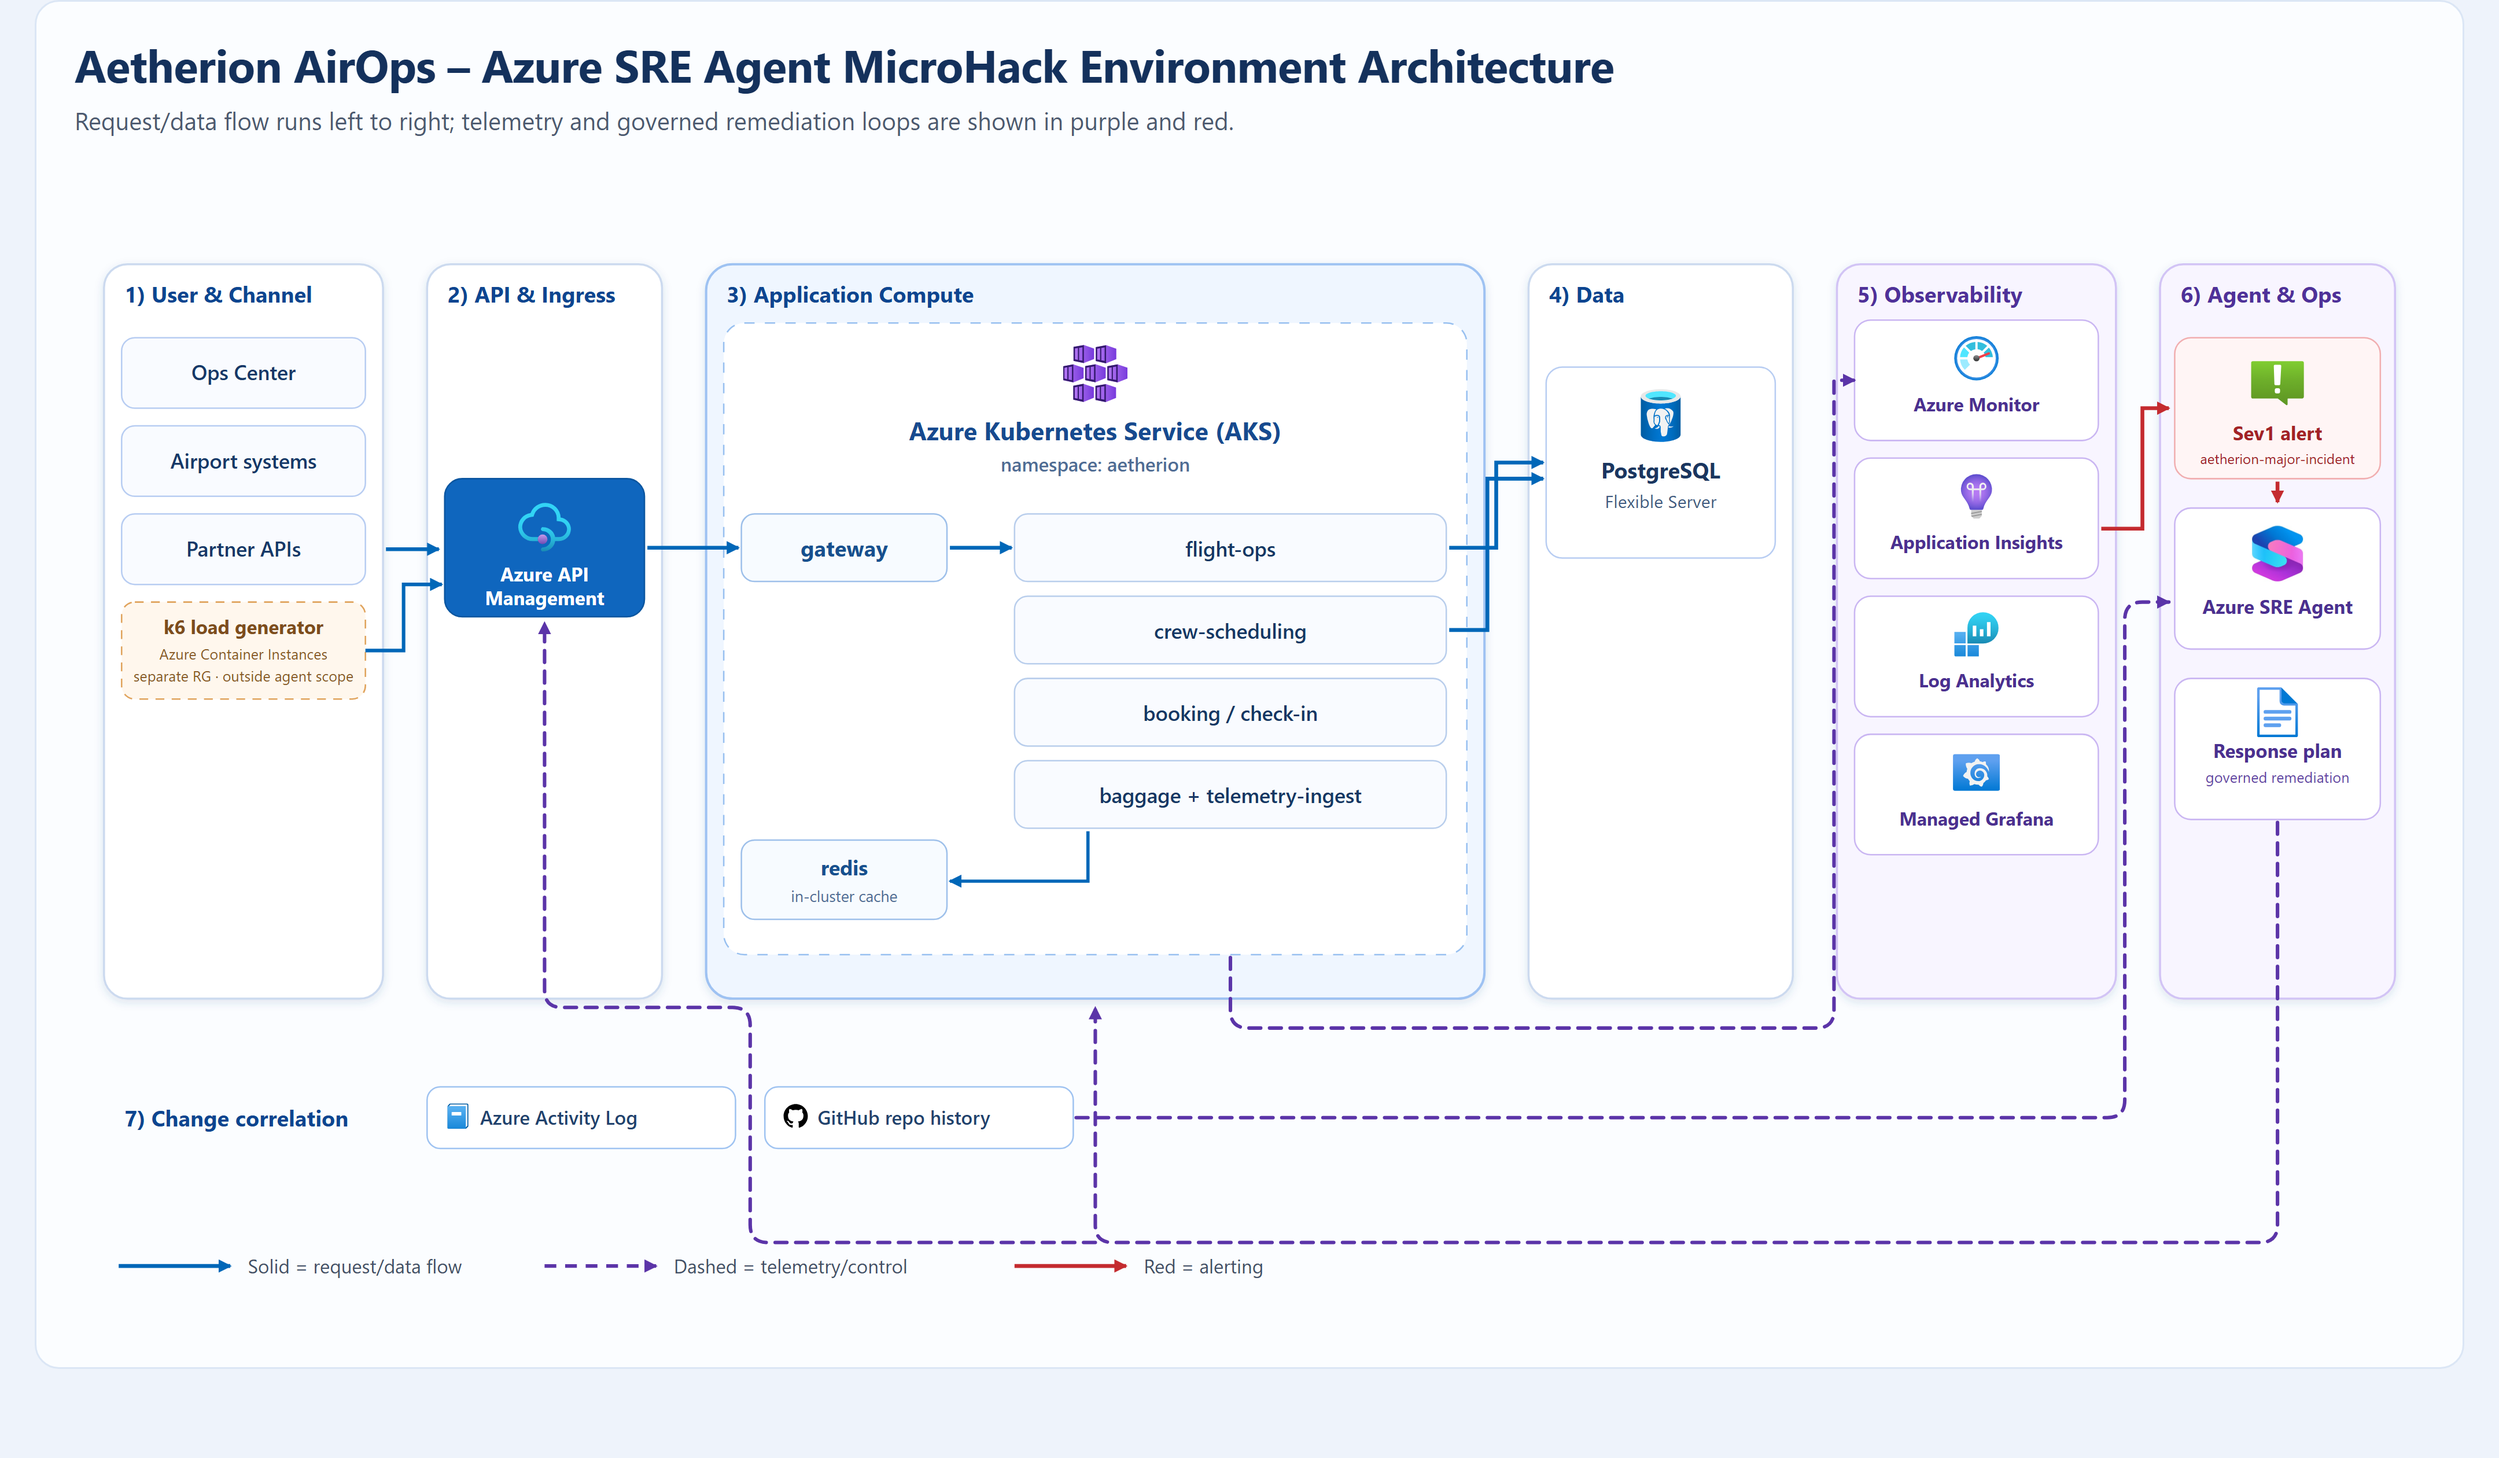
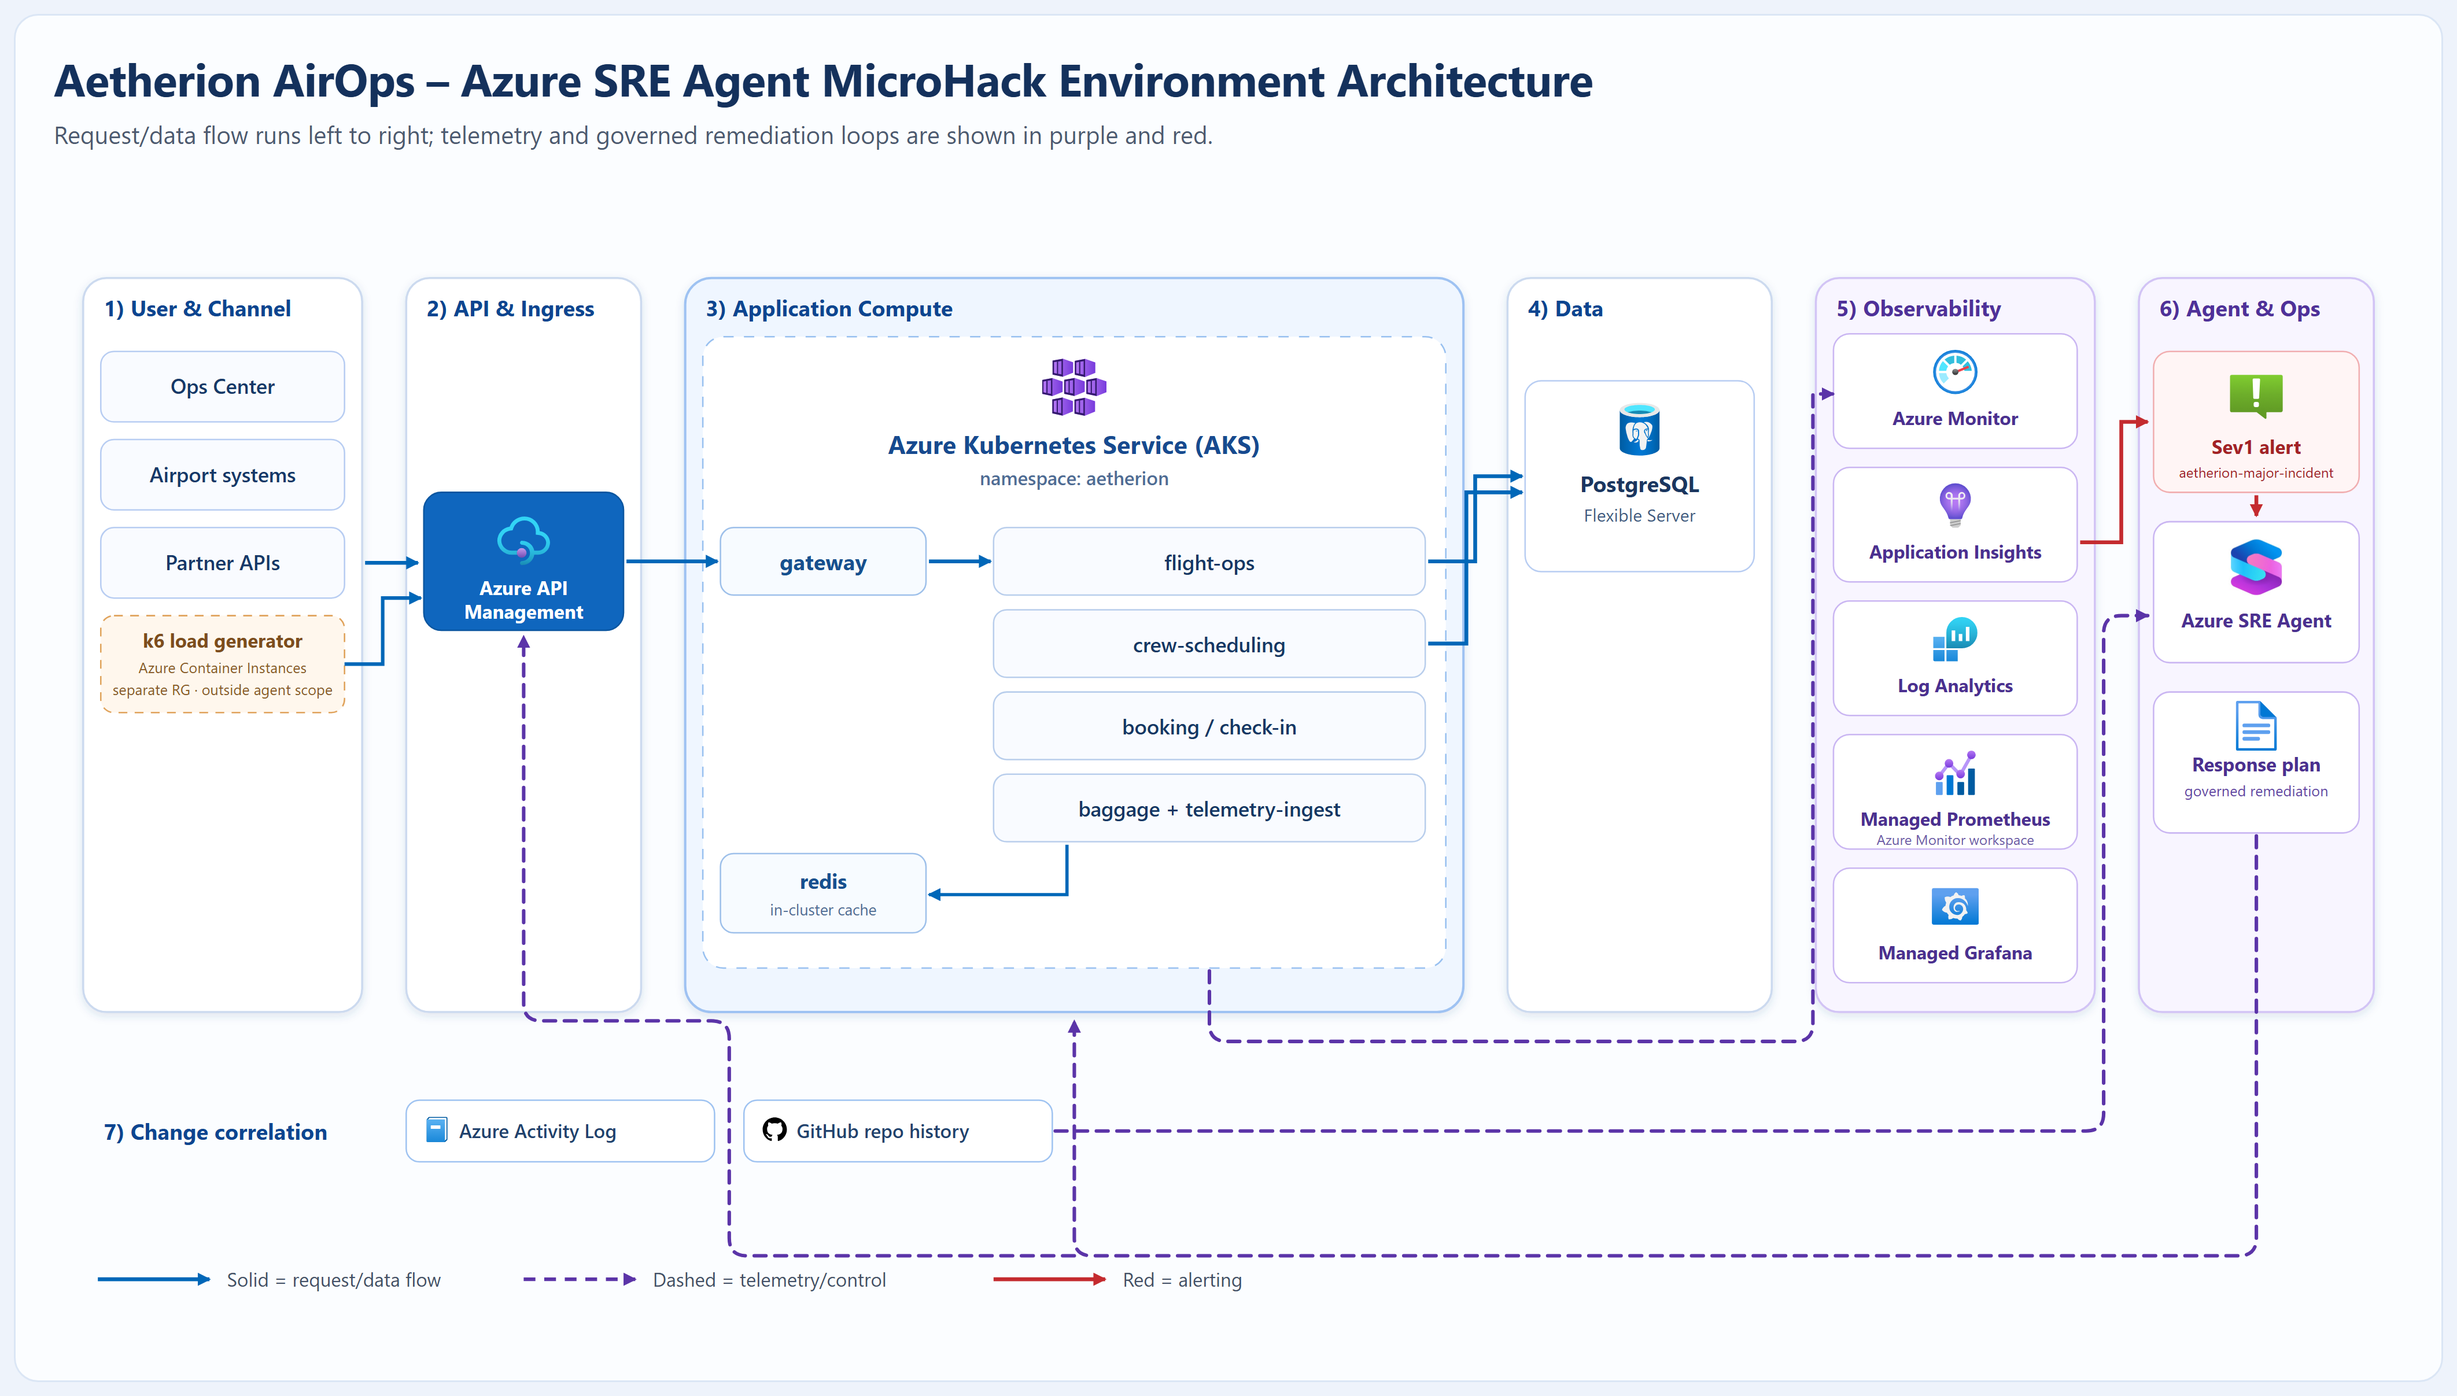
publish: sync lab from master (2026-08-23 18:07)

diff --git a/docs/reference/architecture.md b/docs/reference/architecture.md
@@ -2,8 +2,8 @@
 
 Aetherion AirOps is a microservices estate on Azure Kubernetes Service, fronted
 by Azure API Management, backed by PostgreSQL and Redis, and observed through
-Application Insights, Log Analytics and Grafana. The **Azure SRE Agent** reasons
-across every tier, not just the cluster.
+Application Insights, Log Analytics, managed Prometheus and Grafana. The
+**Azure SRE Agent** reasons across every tier, not just the cluster.
 
 ## Environment at a glance
 
@@ -45,5 +45,8 @@ whole estate.
 - **Application Insights** (`aetherion-appi`): requests, dependencies,
   exceptions and the application map.
 - **Log Analytics** (`aetherion-law`): container and node logs for deep-dive KQL.
+- **Managed Prometheus** (Azure Monitor workspace `aetherion-amw-*`): pod and node
+  CPU/memory time series scraped from AKS. This is what makes "is it CPU-bound or
+  is it waiting?" answerable rather than a guess.
 - **Azure Managed Grafana**: metrics, traces and autoscaling correlation.
 - **Azure Activity Log + GitHub**: change history for incident correlation.

diff --git a/knowledge/architecture.md b/knowledge/architecture.md
@@ -55,6 +55,7 @@ Two front doors sit in front of the cluster:
 | Cache | Redis (in-cluster Deployment + Service, namespace `aetherion`) | Check-in/session state |
 | Telemetry | Application Insights `aetherion-appi` | App traces/metrics/logs |
 | Logs | Log Analytics `aetherion-law` | Central log store (AKS + AppInsights) |
+| Container metrics | Azure Monitor workspace `aetherion-amw-*` (managed Prometheus) | Pod and node CPU/memory time series, scraped from AKS |
 | Dashboards | Managed Grafana `aetherion-grafana-*` | Azure Monitor data source |
 
 ## Microservice roles
